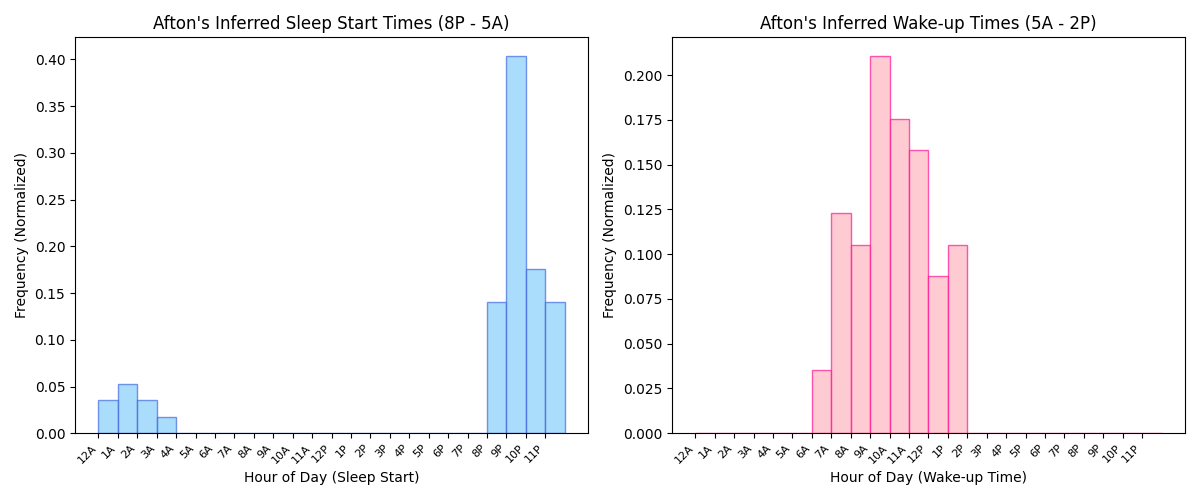
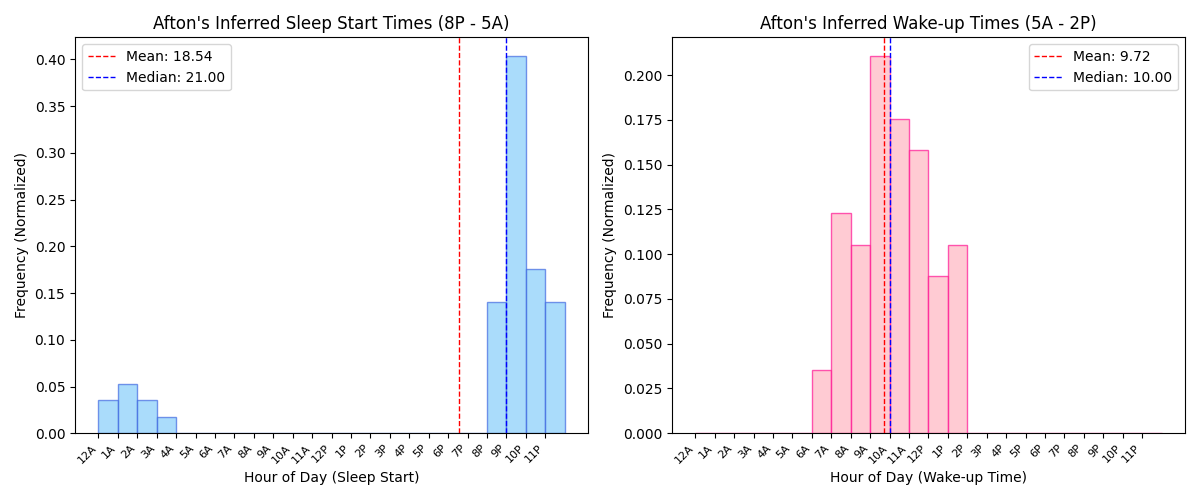
Sleep Times with Mean and Median Values

Changed region(s): [[0.0617, 0.09, 0.185, 0.18], [0.8633, 0.09, 0.9867, 0.18]]

diff --git a/Amueller_Code/Afton_SleepTimes.py b/Amueller_Code/Afton_SleepTimes.py
@@ -4,6 +4,7 @@ import json
 import pandas as pd
 import matplotlib.pyplot as plt
 from datetime import datetime
+import numpy as np
 
 # File paths
 html_file_path = r"C:\Users\equus\CS4501\search-history.html"
@@ -73,26 +74,28 @@ def plot_sleep_patterns(sleep_data):
     sleep_starts, wake_times = zip(*sleep_data)
 
     plt.figure(figsize=(12, 5))
-
-    # Define custom hour labels
     hour_labels = ["12A"] + [f"{h}A" for h in range(1, 12)] + ["12P"] + [f"{h}P" for h in range(1, 12)]
-
-    # Sleep Start Histogram
+    
     plt.subplot(1, 2, 1)
     plt.hist(sleep_starts, bins=range(25), color='lightskyblue', edgecolor='royalblue', alpha=0.7, density=True)
     plt.xlabel("Hour of Day (Sleep Start)", fontsize=10)
     plt.ylabel("Frequency (Normalized)", fontsize=10)
     plt.title("Afton's Inferred Sleep Start Times (8P - 5A)", fontsize=12)
     plt.xticks(range(24), hour_labels, rotation=45, fontsize=8, ha='right')
-
-    # Wake-up Time Histogram
+    plt.axvline(np.mean(sleep_starts), color='red', linestyle='dashed', linewidth=1, label=f"Mean: {np.mean(sleep_starts):.2f}")
+    plt.axvline(np.median(sleep_starts), color='blue', linestyle='dashed', linewidth=1, label=f"Median: {np.median(sleep_starts):.2f}")
+    plt.legend()
+    
     plt.subplot(1, 2, 2)
     plt.hist(wake_times, bins=range(25), color='lightpink', edgecolor='deeppink', alpha=0.7, density=True)
     plt.xlabel("Hour of Day (Wake-up Time)", fontsize=10)
     plt.ylabel("Frequency (Normalized)", fontsize=10)
     plt.title("Afton's Inferred Wake-up Times (5A - 2P)", fontsize=12)
     plt.xticks(range(24), hour_labels, rotation=45, fontsize=8, ha='right')
-
+    plt.axvline(np.mean(wake_times), color='red', linestyle='dashed', linewidth=1, label=f"Mean: {np.mean(wake_times):.2f}")
+    plt.axvline(np.median(wake_times), color='blue', linestyle='dashed', linewidth=1, label=f"Median: {np.median(wake_times):.2f}")
+    plt.legend()
+    
     plt.tight_layout()
     plt.show()
 
